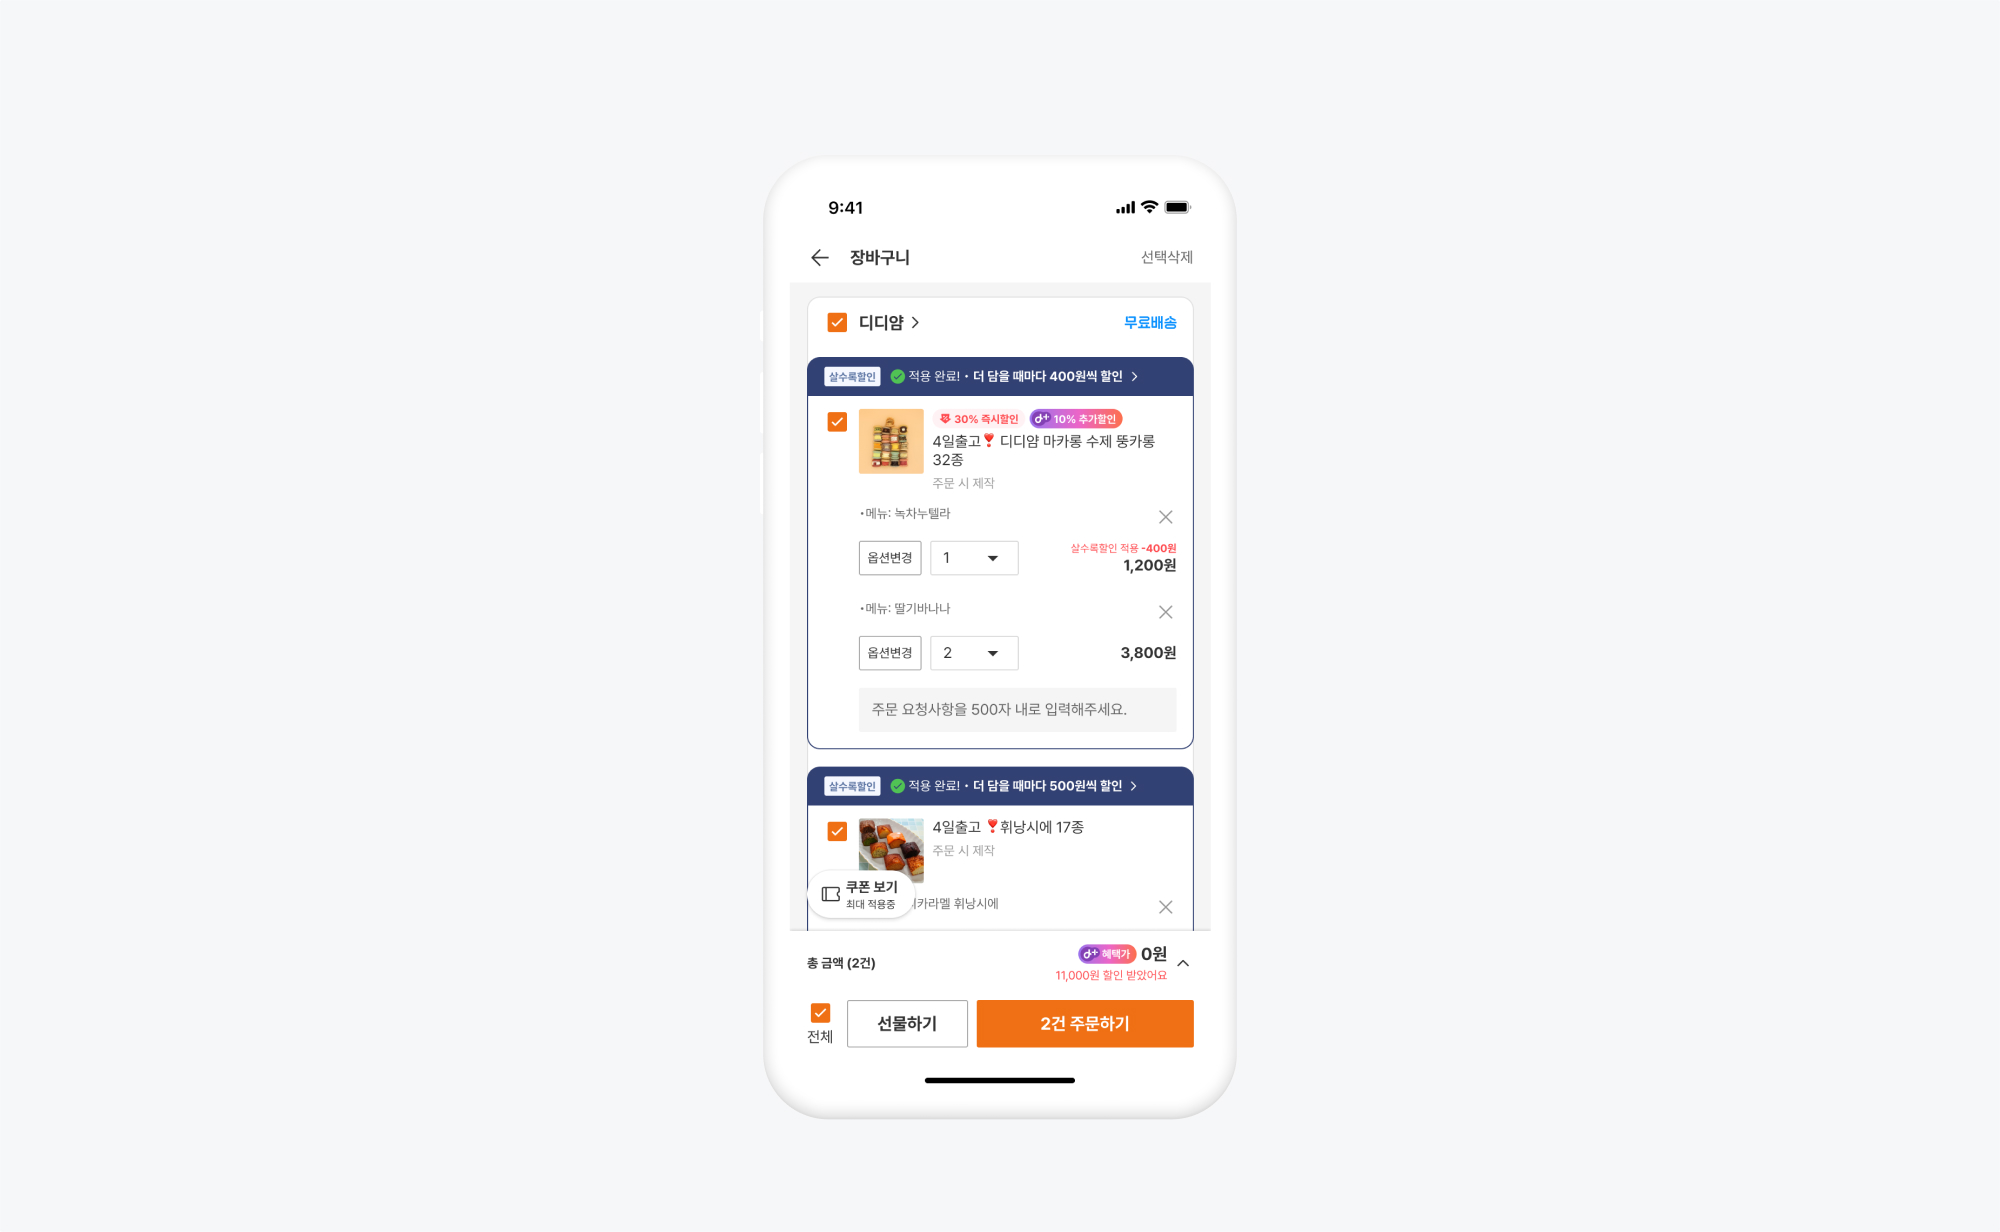
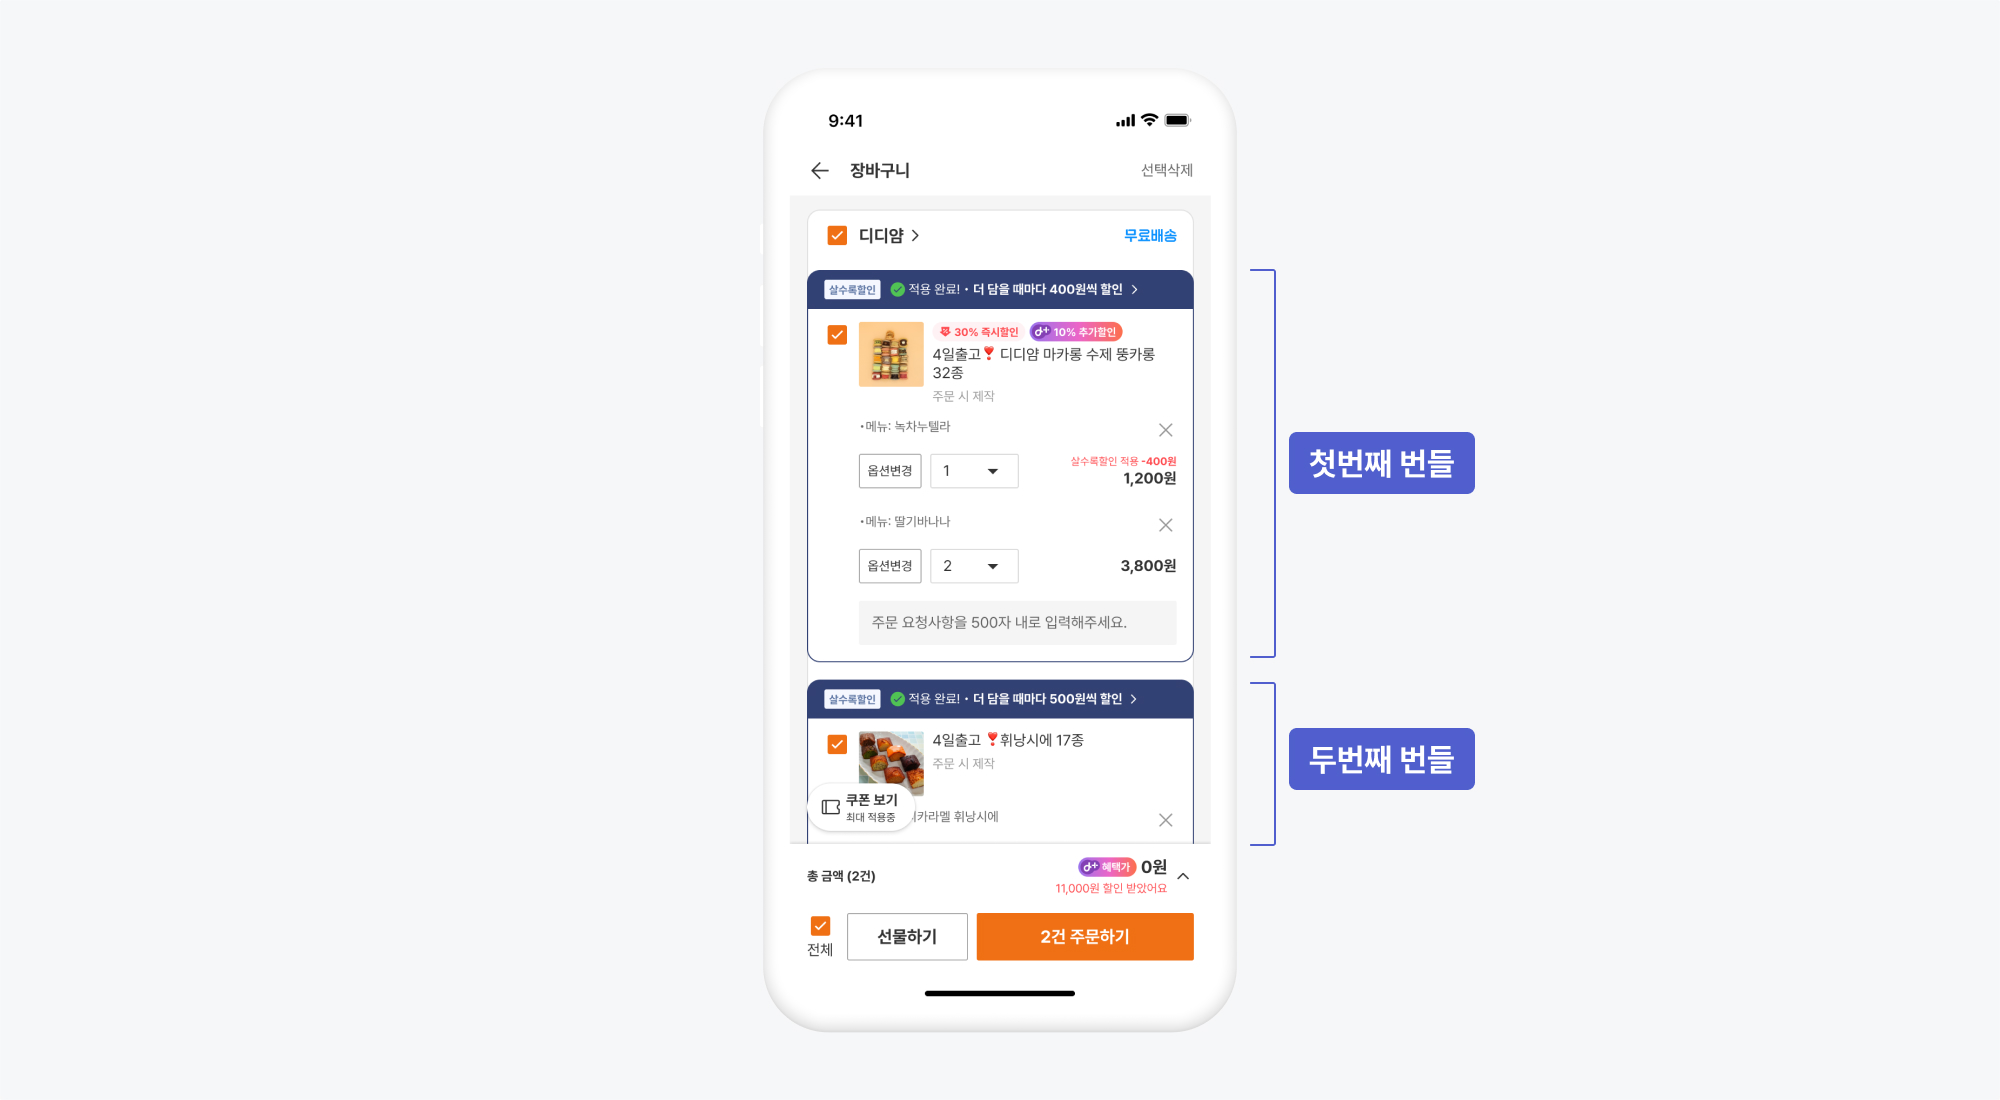
bundle project 내용 업데이트

diff --git a/about/index.html b/about/index.html
@@ -38,7 +38,7 @@ featured_image: /images/social.jpg
 						</div>
 						<div class="resume__right">
 							<div class="resume__project">
-								<div class="resume__jobtitle"><b>아이디어스</b></div>
+								<div class="resume__jobtitle"><b>아이디어스</b> 국내 최대 핸드메이드 이커머스</div>
 								<p class="resume__period">2023.07 - 현재</p>
 								<ul class="task__description">
 									<li class="task__deatil">
@@ -59,14 +59,14 @@ featured_image: /images/social.jpg
 								</ul>
 							</div>
 							<div class="resume__project">
-								<div class="resume__jobtitle"><b>idus Global</b></div>
+								<div class="resume__jobtitle"><b>idus Global</b> 글로벌 45개국 대상 핸드메이드 이커머스 </div>
 								<p class="resume__period">2022.07 - 2024.02</p>
 								<ul class="task__description">
 									<li class="task__deatil">서비스 론칭</li>
 									<li class="task__detail">국가 선택 기능 추가</li>
 									<li class="task__detail">1:1 메시지 기능 추가</li>
 									<li class="task__detail">포토후기 모아보기 등 후기 고도화</li>
-									<li class="task__detail">쿠폰 기능 추가 및 개선</li>
+									<li class="task__detail">쿠폰 플로우 추가 및 개선</li>
 								</ul>
 							</div>
 							<div class="resume__project">
@@ -78,7 +78,7 @@ featured_image: /images/social.jpg
 								</ul>
 							</div>
 							<div class="resume__project">
-								<div class="resume__jobtitle"><b>아이디어스 작가</b></div>
+								<div class="resume__jobtitle"><b>아이디어스 작가</b> 판매자용 플랫폼</div>
 								<p class="resume__period">2021.09 - 2022.02</p>
 								<ul class="task__description">
 									<li class="task__deatil">2.0 서비스 론칭</li>

diff --git a/index.html b/index.html
@@ -1,7 +1,7 @@
 ---
 layout: default
-overtitle: 디지털 프로덕트 디자이너 김혜진입니다.
-title: Digital product designer
+overtitle: 프로덕트 디자이너 김혜진입니다.
+title: Product designer
 description: Good design is good business. <br>I'm creating a good design for success.
 featured_image: /images/social.jpg
 ---

diff --git a/_sass/_typography.scss b/_sass/_typography.scss
@@ -162,10 +162,11 @@ ol {
 }
 
 blockquote {
-  margin-top: 16px;
-  border-left: 0.25rem solid #d8e0e7;
-  color: #90949a;
-  padding: 10px 0 10px 32px;
+  margin: 16px auto 0px auto;
+  border-left: 0.25rem solid #666;
+  color: #444;
+  padding: 10px 0px 2px 24px;
+  max-width: 720px;
 
   p {
     font-family: $title-font;

diff --git a/_projects/2024-07-01-bundle.md b/_projects/2024-07-01-bundle.md
@@ -19,8 +19,8 @@ gallery_images:
 
 #### 배경
 
-무료배송 정책을 오픈한지 어느덧 1개월, <br>
-아이디어스에서 판매되는 작품들은 <b>배송비가 포함되면서 전반적으로 가격이 상승</b>하게 되었어요.
+무료배송을 오픈한지 어느덧 1개월, <br>
+아이디어스에서 판매되는 작품[^1]들은 <b>배송비가 포함되면서 전반적으로 가격이 상승</b>하게 되었어요.
 
 
 
@@ -29,7 +29,7 @@ gallery_images:
 ##### 고객 입장
 
 작품가격에 배송비가 어느정도 녹아있기 때문에 <br>
-여러 개 구매 시 배송비가 중복으로 부과되어 가격에 큰 부담을 느낄 수 있어요.
+<b>여러 개 구매 시 배송비가 중복으로 부과</b>되어 가격에 큰 부담을 느낄 수 있어요.
 
 ![](/images/projects/13_bundle/01.jpg)
 
@@ -39,7 +39,7 @@ gallery_images:
 
 ##### 작가님 입장
 
-판매가 설정에 어려움이 있던 작가님들로부터 VoC가 접수되었어요. <br>
+판매가 설정에 어려움이 있던 작가님[^1]들로부터 VoC가 접수되었어요. <br>
 현재 구조상 <b>작품마다 할인을 적용</b>해야 해서 <b>작가님 입장에서 불편함</b>이 컸어요.
 
 ![](/images/projects/13_bundle/02.jpg)
@@ -50,8 +50,12 @@ gallery_images:
 
 #### 가설
 
-작품을 복수개 구매할 때 할인이 적용되면 고객이 더 많은 작품을 구매할 거라고 생각했어요.
+- 작품을 복수개 구매할 때 할인이 적용되면 고객이 더 많은 작품을 구매할 것이다.
 
+> <b>성과 지표</b>
+> 1. 평균 주문 금액(AOV) 증가
+> 2. 살수록할인 설정한 작가의 평균 매출 증가
+> 3. 작가님과 고객의 VoC 감소
 
 #### 해결 방법
 
@@ -60,26 +64,27 @@ gallery_images:
 
 <br>
 
-##### 1.살수록할인 번들 그룹핑
+##### 1. 살수록할인 번들 그룹핑
 
-위에서 적었듯 작가별로 정책이 여러 개가 될 수도 있는데요.
-<br>
+위에서 적었듯 <b>작가별로 번들이 여러 개</b>가 될 수도 있는데요.
+
 할인 적용 작품을 한눈에 구분할 수 있도록 번들별로 박스 UI로 묶어주었어요.
 
 ![](/images/projects/13_bundle/03.jpg)
  
 <br>
 
-##### 2.간편한 할인 적용
+##### 2. 간편한 할인 적용
 
-고객이 최소한의 클릭으로 할인을 적용받도록 조건 충족시 할인이 자동 적용되도록 했어요.<br>
-또, 할인이 적용되면 Transition을 추가해 직관적으로 인지할 수 있도록 했어요.
+<b>조건 충족시 할인이 자동 적용</b>되어 고객이 최소한의 클릭으로 할인을 적용할 수 있게 했어요.
+
+또한, 할인이 적용되면 Transition을 추가해 상태를 직관적으로 인지할 수 있도록 했어요.
 
 ![](/images/projects/13_bundle/04.gif)
 
 <br>
 
-##### 3.적용 전후 문구 변화
+##### 3. 적용 전후 문구 변화
 
 가장 까다로웠고 신경을 많이 쓴 부분이에요.
 
@@ -102,8 +107,9 @@ UX Researcher의 도움을 받아 <b>사내에서 네 차례의 Casual UT를 진
 
 ![](/images/projects/13_bundle/07.jpg)
 
+<br>
 
-##### 4.할인 적용 금액 표시
+##### 4. 할인 적용 금액 표시
 
 아이디어스는 타사에 비해 <b>옵션 내용이 많고 길이가 긴 작품 카드</b>를 가지고 있어요. 작가별 총 금액 영역에만 할인 금액을 표시하기에는 고객이 할인됐음을 인지하기 어려운 문제가 있었어요.
 
@@ -111,9 +117,11 @@ UX Researcher의 도움을 받아 <b>사내에서 네 차례의 Casual UT를 진
 
 <img src="/images/projects/13_bundle/08.jpg" style="max-width: 720px; width: 100%;">
 
-##### 5.번들 내 추가 작품 탐색 기능
+<br>
 
-장바구니에 담긴 작품이 살수록할인 번들에 속해 있을 때, 고객이 번들 내의 다른 작품을 탐색하기 쉽도록 해 더 많이 구매하도록 유도했어요.
+##### 5. 번들 내 추가 작품 탐색 기능
+
+장바구니에 담긴 작품이 살수록할인 번들에 속해 있을 때, 고객이 번들 내의 다른 작품을 탐색하기 쉽도록 작품 리스트로 연결해 더 구매하도록 유도했어요.
 
 ![](/images/projects/13_bundle/09.jpg)
 
@@ -131,8 +139,10 @@ UX Researcher의 도움을 받아 <b>사내에서 네 차례의 Casual UT를 진
 #### 소감
 
 비교적 빠른 시간 내에 작업이 이루어졌는데, 좋은 성과가 있어서 보람있던 프로젝트였어요.
-5차례의 Casual UT를 통해 문구를 정리했던 과정이 특히 기억에 남습니다.
+네 차례의 Casual UT를 통해 문구를 정리했던 과정이 특히 기억에 남습니다.
 
 아쉬운 점도 있었어요.
 
 요구사항에 맞추어 작업을 하다보니 카드 내부의 UI 복잡도가 많이 올라가게 되었는데요. 이 부분은 후속과제로 두고 우선순위에 따라 위계를 재조정하려고 합니다.
+
+[^1]: 아이디어스에서는 판매자 대신 '작가님', 상품 대신 '작품'이라고 부르고 있어요.

diff --git a/_projects/2023-08-09-address-book.md b/_projects/2023-08-09-address-book.md
@@ -56,7 +56,7 @@ gallery_images:
 {% include badge.html content="Problem 2" %}
 ###### 첫번째 칸의 배송지가 기본으로 사용돼요. 
 <!-- - <b>첫번째 칸의 배송지가 기본으로 사용돼요. </b> -->
-- <b>배송지 오기입</b>으로 작가님에게 배송지 변경을 직접 요청하는 상황이 자주 발생했어요.
+- <b>배송지 오기입</b>으로 작가님[^1]에게 배송지 변경을 직접 요청하는 상황이 자주 발생했어요.
 
 {% include badge.html content="Problem 3" %}
 
@@ -188,8 +188,10 @@ gallery_images:
 
 #### 소감
 
-프로덕트 디자이너로 일하면서 비즈니스 목표와 고객의 사용성 사이에서 어디에 더 무게를 둘지 고민하는 순간이 종종 있는데요. 이 프로젝트는 ‘hygiene issue’[^1]를 해결하자는 큰 목표가 있었기에 평소에 가지던 부담에서 벗어나 오로지 사용성에 집중해본 시간이었습니다. Casual UT를 통해 사용성을 검증했던 과정이 특히 기억에 남습니다. 
+프로덕트 디자이너로 일하면서 비즈니스 목표와 고객의 사용성 사이에서 어디에 더 무게를 둘지 고민하는 순간이 종종 있는데요. 이 프로젝트는 ‘hygiene issue’[^2]를 해결하자는 큰 목표가 있었기에 평소에 가지던 부담에서 벗어나 오로지 사용성에 집중해본 시간이었습니다. Casual UT를 통해 사용성을 검증했던 과정이 특히 기억에 남습니다. 
 
 아주 오래 묵은 VoC를, 앓던 이를 제가 뽑았다는 점도 의미있었어요. 디자이너 이전에 사용자로서 저와 제 동료들 역시 불편함을 겪었던 부분이라 사용자의 입장에서 느낀 기쁨까지 뿌듯함이 배가 되었습니다.
 
-[^1]: 위생요인 : 어떤 분야에서 자신이 경쟁하는 데 필요한 최소한의 서비스나 제품의 스펙. 필수조건. [Link](https://www.bain.com/ko/insights/hygiene-versus-wow-factors/)
+
+[^1]: 아이디어스에서는 판매자 대신 '작가님', 상품 대신 '작품'이라고 부르고 있어요.
+[^2]: 위생요인 : 어떤 분야에서 자신이 경쟁하는 데 필요한 최소한의 서비스나 제품의 스펙. 필수조건. [Link](https://www.bain.com/ko/insights/hygiene-versus-wow-factors/)

diff --git a/_projects/2024-02-01-favorite.md b/_projects/2024-02-01-favorite.md
@@ -155,10 +155,13 @@ gallery_images:
 
 #### 결과
 
-개선 후 첫 달에 확인한 데이터에서 찜 리스트의 Reach가 N% 증가한 것을 확인했어요.  <br>
+개선 후 첫 달에 확인한 데이터에서 찜 리스트의 Reach가 `300%`까지 증가한 것을 확인했어요.
+
+<img src="/images/projects/11_favorite/15.jpg" style="max-width: 720px; width: 100%;">
+
 많이 늘어난 Reach의 여파로 구매 전환률이 소폭 낮아졌지만, 이 부분은 좀 더 장기간의 데이터를 트래킹할 예정이에요.
 
-할인폭을 적어준 작품 카드의 효과도 확인해보았는데요. <br>할인폭이 노출된 작품의 경우, 아닌 작품보다 클릭률이 N% 더 높은 점을 확인할 수 있었어요. 해당 작품만 구분해 보기 어려운 상황임에도 기대 이상의 수치였어기에 추후 할인 작품만 모아볼 수 있는 필터 제공도 고려하기로 했어요.
+할인폭을 적어준 작품 카드의 효과도 확인해보았는데요. <br>할인폭이 노출된 작품의 경우, 아닌 작품보다 클릭률이 `28%` 더 높은 점을 확인할 수 있었어요. 해당 작품만 모아보기 어려운 상황임에도 기대 이상의 수치였어기에 추후 할인 작품만 모아볼 수 있는 필터 제공도 고려하기로 했어요.
 
 
 
